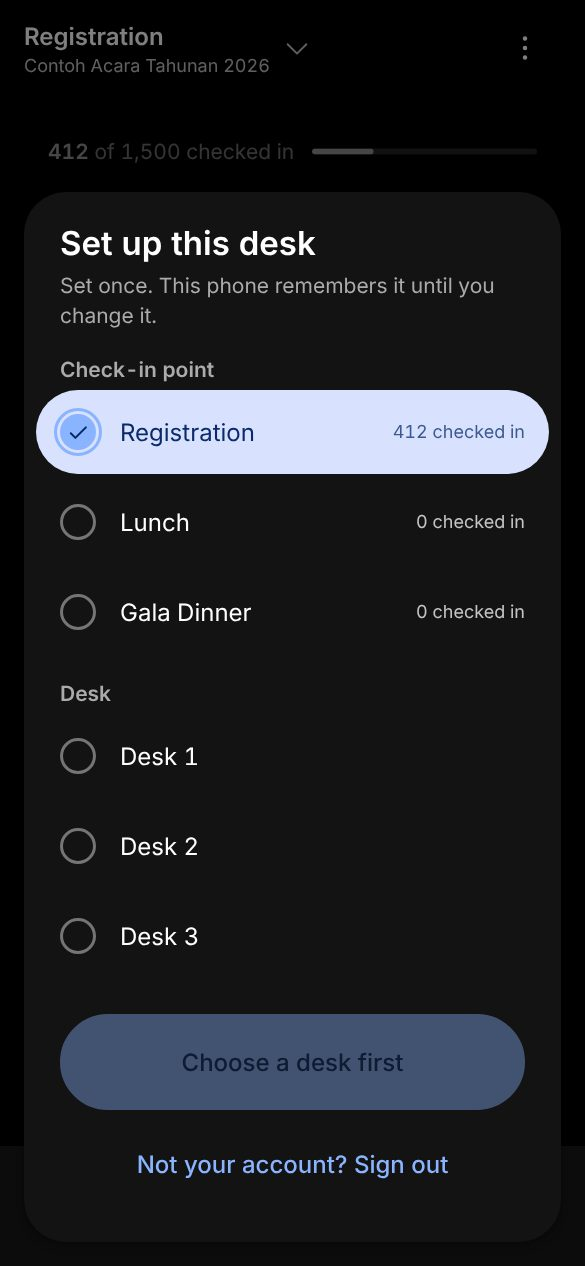
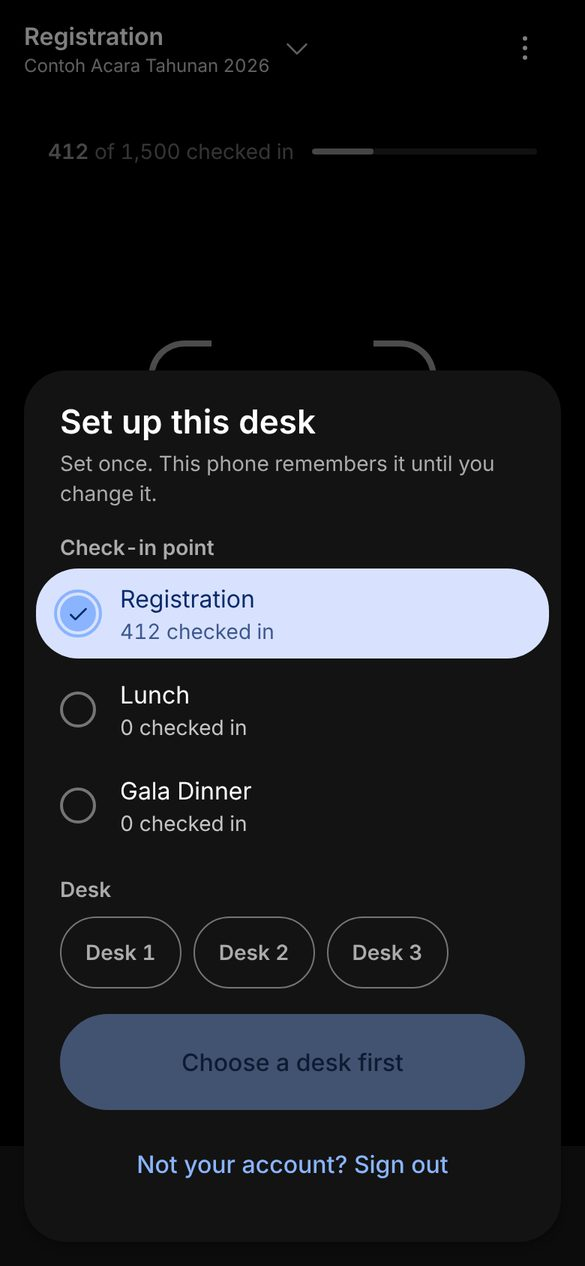
Scanner: Start scanning stays visible in the check-in point sheet
With many check-in points and desks, the Start scanning button scrolled
below the phone screen. Pin it to the bottom of the sheet, move the
checked-in count under the name, and show desks as 48 px choice chips.
Scanner guide shots 01-02 retaken.

Claude-Session: https://claude.ai/code/session_01P7FxNWetH7jWFf6Wi27DgB

Changed region(s): [[0.0615, 0.1848, 0.9538, 0.7701], [0.5231, 0.7393, 0.7692, 0.7701], [0.3692, 0.7393, 0.4923, 0.7701]]

diff --git a/src/app/scan/lembar-meja.tsx b/src/app/scan/lembar-meja.tsx
@@ -1,7 +1,7 @@
 "use client";
 
 import { Check, X } from "@phosphor-icons/react";
-import { useState, type ReactNode } from "react";
+import { useEffect, useState, type ReactNode } from "react";
 import { Button, Dialog } from "@/components/m3";
 import type { Jalur, Sesi } from "./types";
 
@@ -47,7 +47,15 @@ export function LembarScan({
   );
 }
 
-/** Satu pilihan berbentuk baris 56 px. Radio sungguhan, supaya pembaca layar dan papan ketik bekerja. */
+/**
+ * Satu pilihan berbentuk baris, minimal 56 px. Radio sungguhan, supaya pembaca
+ * layar dan papan ketik bekerja.
+ *
+ * Dua baris (daftar M3 "two-line list item"): nama di atas memakai seluruh
+ * lebar, angka hadir di bawahnya. Dulu angka itu berdiri di kanan dan memakan
+ * sepertiga lebar ponsel, jadi nama checkpoint yang panjang patah menjadi tiga
+ * baris dan daftarnya mendorong tombol mulai keluar layar.
+ */
 function BarisPilihan({ nama, value, label, sub, dipilih, onPilih }: {
   nama: string;
   value: number;
@@ -58,21 +66,59 @@ function BarisPilihan({ nama, value, label, sub, dipilih, onPilih }: {
 }) {
   return (
     <label
-      className={`m3-state flex min-h-14 cursor-pointer items-center gap-4 rounded-2xl px-4 ${
+      className={`m3-state flex min-h-14 cursor-pointer items-center gap-4 rounded-2xl px-4 py-2 ${
         dipilih ? "bg-secondary-container text-on-secondary-container" : ""
       }`}
     >
       <input type="radio" name={nama} value={value} checked={dipilih} onChange={() => onPilih(value)} className="peer sr-only" />
-      <span
-        aria-hidden
-        className={`flex size-6 shrink-0 items-center justify-center rounded-full border-2 peer-focus-visible:outline peer-focus-visible:outline-2 peer-focus-visible:outline-offset-2 peer-focus-visible:outline-primary ${
-          dipilih ? "border-primary bg-primary text-on-primary" : "border-outline"
-        }`}
-      >
-        {dipilih ? <Check size={14} weight="bold" /> : null}
+      <TandaPilih dipilih={dipilih} />
+      <span className="min-w-0 flex-1">
+        <span className="block text-body-large">{label}</span>
+        {sub ? <span className="block text-body-medium tabular-nums opacity-75">{sub}</span> : null}
       </span>
-      <span className="min-w-0 flex-1 text-body-large">{label}</span>
-      {sub ? <span className="shrink-0 text-body-small tabular-nums opacity-75">{sub}</span> : null}
+    </label>
+  );
+}
+
+function TandaPilih({ dipilih, kecil = false }: { dipilih: boolean; kecil?: boolean }) {
+  return (
+    <span
+      aria-hidden
+      className={`flex shrink-0 items-center justify-center rounded-full border-2 peer-focus-visible:outline peer-focus-visible:outline-2 peer-focus-visible:outline-offset-2 peer-focus-visible:outline-primary ${
+        kecil ? "size-5" : "size-6"
+      } ${dipilih ? "border-primary bg-primary text-on-primary" : "border-outline"}`}
+    >
+      {dipilih ? <Check size={kecil ? 12 : 14} weight="bold" /> : null}
+    </span>
+  );
+}
+
+/**
+ * Satu meja sebagai chip pilihan tunggal.
+ *
+ * Meja dipilih sekali per ponsel dan jarang diganti, jadi ia tidak berhak atas
+ * empat baris 56 px di bawah checkpoint. Chip yang membungkus ke baris berikut
+ * muat untuk berapa pun jumlah meja dan sepanjang apa pun namanya. Bentuk dan
+ * warnanya sama dengan `FilterChip`, tetapi isinya radio, bukan tombol
+ * `aria-pressed`: memilih satu meja melepaskan yang lain, dan pembaca layar
+ * perlu mendengar itu sebagai satu kelompok. Tinggi 48 px, bukan 40: ini layar
+ * yang dipakai sambil berdiri (DESIGN.md, Booth, kasir, pemindai).
+ */
+function ChipMeja({ value, label, dipilih, onPilih }: {
+  value: number;
+  label: string;
+  dipilih: boolean;
+  onPilih: (id: number) => void;
+}) {
+  return (
+    <label
+      className={`m3-state relative inline-flex min-h-12 cursor-pointer items-center gap-2 px-4 text-label-large font-semibold transition-[border-radius,background-color,color,border-color] duration-200 ease-emphasized ${
+        dipilih ? "rounded-lg bg-secondary-container text-on-secondary-container" : "rounded-full border border-outline text-on-surface-variant"
+      }`}
+    >
+      <input type="radio" name="jalur-meja" value={value} checked={dipilih} onChange={() => onPilih(value)} className="peer sr-only" />
+      {dipilih ? <Check size={18} weight="bold" aria-hidden /> : null}
+      <span className="rounded-sm peer-focus-visible:outline peer-focus-visible:outline-2 peer-focus-visible:outline-offset-4 peer-focus-visible:outline-primary">{label}</span>
     </label>
   );
 }
@@ -104,6 +150,20 @@ export function PilihMeja({
   const [jalur, setJalur] = useState<number | null>(laneId);
   const perluJalur = lanes.length > 0;
   const siap = sesi !== null && (!perluJalur || jalur !== null);
+  const [ujung, setUjung] = useState<HTMLDivElement | null>(null);
+  const [tertutup, setTertutup] = useState(false);
+
+  // Penanda ujung daftar tertutup kaki lengket = masih ada pilihan di bawah.
+  // rootMargin bawah dikurangi tinggi kaki kira-kira, supaya garisnya hilang
+  // tepat saat pilihan terakhir sudah tampak di atas tombol.
+  useEffect(() => {
+    if (!ujung || typeof IntersectionObserver === "undefined") return;
+    const pengamat = new IntersectionObserver(([masuk]) => setTertutup(!masuk.isIntersecting), {
+      rootMargin: "0px 0px -96px 0px",
+    });
+    pengamat.observe(ujung);
+    return () => pengamat.disconnect();
+  }, [ujung]);
 
   return (
     <form
@@ -137,15 +197,27 @@ export function PilihMeja({
       {perluJalur ? (
         <fieldset className="mt-4">
           <legend className="px-6 text-title-small text-on-surface-variant">Desk</legend>
-          <div className="mt-1 space-y-1 px-2">
+          <div className="mt-2 flex flex-wrap gap-2 px-6">
             {lanes.map((baris) => (
-              <BarisPilihan key={baris.id} nama="jalur-meja" value={baris.id} label={baris.name} dipilih={jalur === baris.id} onPilih={setJalur} />
+              <ChipMeja key={baris.id} value={baris.id} label={baris.name} dipilih={jalur === baris.id} onPilih={setJalur} />
             ))}
           </div>
         </fieldset>
       ) : null}
 
-      <div className="px-6 pb-6 pt-6">
+      {/* Penanda ujung daftar: selama ia belum terlihat, ada pilihan di bawah kaki. */}
+      <div ref={setUjung} aria-hidden className="h-px" />
+
+      {/* Kaki lengket: tombol mulai selalu terlihat, seberapa pun panjang daftarnya.
+          Sebelumnya ia ikut bergulir di dasar lembar, dan di ponsel dengan enam
+          checkpoint dan empat meja petugas tidak tahu ada tombol yang harus
+          ditekan (M3: aksi dialog tetap di tempat, hanya isinya yang bergulir).
+          Garis atas hanya muncul saat ada pilihan yang tertutup kaki ini. */}
+      <div
+        className={`sticky bottom-0 z-10 bg-surface-container-low px-6 pb-6 pt-4 ${
+          tertutup ? "border-t border-outline-variant" : ""
+        }`}
+      >
         <Button type="submit" size="xl" shape="pill" block disabled={!siap}>
           {sesi === null ? "Choose a check-in point first" : !siap ? "Choose a desk first" : "Start scanning"}
         </Button>

diff --git a/public/panduan/scanner.html b/public/panduan/scanner.html
@@ -113,9 +113,9 @@ footer { margin-top: 36px; color: var(--muted); font-size: 13px; }
     <h2><span class="no">1</span>Pilih sesi dan meja</h2>
     <p>Saat pertama dibuka, layar langsung menampilkan <span class="ui">Set up this desk</span>. Lembar ini tidak bisa ditutup sebelum diisi.</p>
     <ol class="steps">
-      <li>Di <span class="ui">Check-in point</span>, pilih sesi yang sedang berjalan, misalnya <span class="ui">Registration</span>. Angka di kanan adalah jumlah orang yang sudah hadir di sesi itu.</li>
+      <li>Di <span class="ui">Check-in point</span>, pilih sesi yang sedang berjalan, misalnya <span class="ui">Registration</span>. Angka di bawah namanya adalah jumlah orang yang sudah hadir di sesi itu.</li>
       <li>Di <span class="ui">Desk</span>, pilih meja tempat Anda berdiri. Bagian ini hanya muncul kalau acara punya lebih dari satu meja.</li>
-      <li>Tekan <span class="ui">Start scanning</span>. Tombolnya baru aktif setelah sesi dan meja dipilih.</li>
+      <li>Tekan <span class="ui">Start scanning</span> di bawah lembar. Tombolnya baru aktif setelah sesi dan meja dipilih. Tombol ini selalu terlihat; kalau daftar sesinya panjang, gulir daftarnya, bukan mencari tombolnya.</li>
     </ol>
     <div class="pair">
       <figure><img src="/panduan/scanner/01-siapkan-meja.jpg" alt="Lembar Set up this desk sebelum meja dipilih" loading="lazy"><figcaption>Belum lengkap: tombol masih abu-abu</figcaption></figure>

diff --git a/docs/STATUS.md b/docs/STATUS.md
@@ -15,6 +15,7 @@ Current state only. History is in `git log` and PR descriptions. Last updated: 2
 
 ## In flight
 
+- Scanner "Change check-in point or desk" sheet (Mas 3 Nov: with 6 check-in points and 4 desks the Start scanning button sat below the phone screen): Start scanning is pinned to the bottom of the sheet (a thin line shows while choices are hidden under it), the "N checked in" count moves under the name so long names keep two lines, and desks are 48 px choice chips instead of full rows. A choice still applies only on Start scanning. Staff /scan only, no SQL. Scanner guide shots 01-02 retaken. PR open, waits on QA and Mas's timing OK.
 - Vehicle on the scan result follows the session's Agenda time (Mas 3 Nov: Vehicle showed "Not set" while testing although vehicles are assigned per trip): when the session's checkpoint is linked to Agenda rows, Shown after scan > Vehicle shows the participant's trip that departs last before that row's time on the same day (else the first one after it that day; no trip that day = default vehicle or Not set), so a rehearsal shows the same as the day itself. Unlinked sessions keep the scan-date rule, now falling forward to the next trip like Hotel. Menu tag "trip for this session". Staff /scan only, no SQL. PR open, waits on QA and Mas's timing OK.
 - Printable checkpoint QR (Mas 2 Nov, a client wants the checkpoint QR on a poster): Check-in > Checkpoints > checkpoint scanned by participants > Checkpoint QR: "Changes every 30 seconds" (default, as before) or "Fixed, can be printed". Fixed = one code per scan session and code number, valid only while the session is Open; "Print poster (A4)" and "Make a new code…" (old posters refused with their own message); amber warning when a lucky draw prize uses check-ins or checkpoints. Scanner Show QR and the screen view show the same code without the countdown. Stored per scan session; SQL `202611020001_checkpoint_qr_tetap` (three columns, defaults keep every event at 0 px). SQL run on production 2 Nov, post-check true. #378 merged 2 Nov (QA GO, Mas OK). Parked Lows: the poster's top line still says "Loading…" beside an error; saving a checkpoint whose When is refused (422) still switches its session to Fixed; the lucky draw warning is not indented like the Checkpoint QR choice.
 - Luggage number on the Bagasi card (Mas 2 Nov: the big number above "2 bagasi" looked stuck on): the number now sits in the grey key-fact strip ("Nomor bagasi A-045"), the same strip as the hotel room and the train carriage and seat; "2 bagasi" stays the card headline. Before drop-off the card shows the strip and "Sebutkan nomor ini di meja bagasi.". Horizon and Trip, participant area only, no SQL. #377 merged 2 Nov (QA GO, Mas OK).
